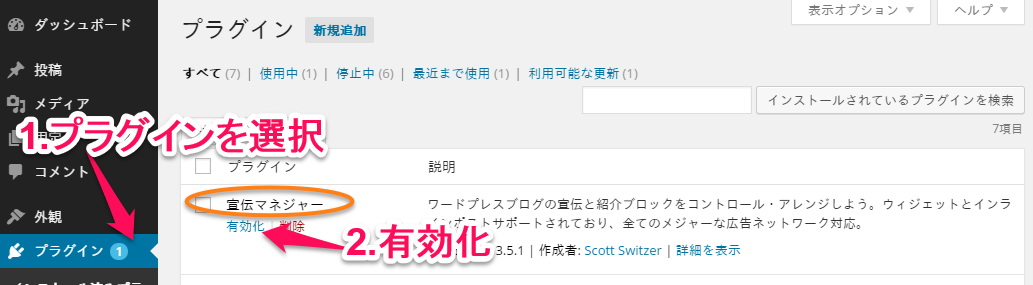
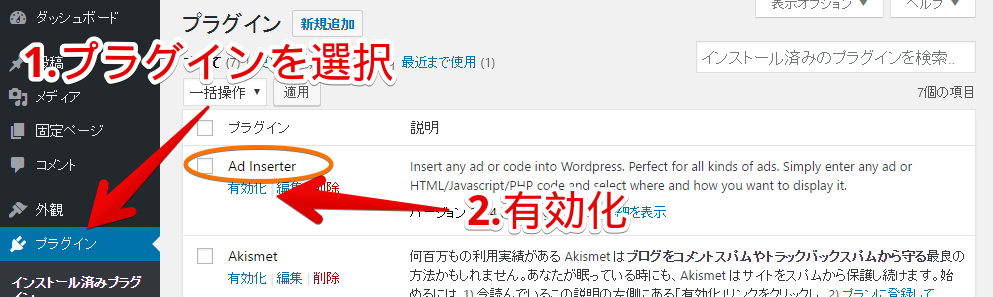
Updated Wordpress Document. Added Ad Inserter instead of Advatising Manager

diff --git a/WordPress_Plugin.md b/WordPress_Plugin.md
@@ -1,191 +1,197 @@
 # 目次
-- [WordPressプラグイン「Advertising Manager」のインストール](#install)
-  - [「Advertising Manager」をインストールする](#install1)
-  - [「Advertising Manager」を有効にする](#install2)
-- [「Advertising Manager」の設定](#setup)
-  - [テーマの編集](#setup1)
-    - [テンプレートへのコードの追加](#setup1-1)
-  - [「Adveritising Manager」の広告枠設定](#setup2)
-    - [広告テンプレートと呼出用タグの設定](#setup2-1)
-    - [広告設置位置指定タグの設定](#setup2-2)
+- [事前に準備するもの](#prerequisite)
+ - [広告枠ID](#prerequisite1)
+- [WordPressプラグインのインストール](#install)
+ - [プラグインをインストールする](#install1)
+ - [プラグインを有効にする](#install2)
+ - [Advanced Ads Pro の購入方法](#install3)
+- [「Ad Inserter」をインストールした場合](#setup1)
+ - [「Ad Inserter」の共通設定 - 広告表示実行コードを登録](#setup1-1)
+ - [広告を title と content の間に出力する方法 (テーマ編集なし)](#setup1-2)
+   - [広告設置位置指定タグの設定](#setup1-2-1)
+ - [広告を post と post の間に出力する方法 (テーマ編集あり)](#setup1-3)
+   - [広告設置位置指定タグの設定](#setup1-3-1)
+   - [テンプレートへのコードの追加](#setup1-3-2)
+- [「Advanced Ads Pro」をインストールした場合](#setup2)
+ - [広告を post と post の間に出力する方法 (テーマ編集なし)](#setup2-1)
+   - [広告設置位置指定タグの設定](#setup2-1-1)
 
 
-WordPress にプラグインを用いてインフィード広告を導入する方法を説明します。
+# 目的
+- WordPress にプラグインを用いてインフィード広告を導入する方法を説明します。
+- 紹介するプラグインは「Ad Inserter」と「Advanced Ads Pro(有料版)」になります。
+- プラグインのインストール方法は「Ad Inserter」のみで解説しますが基本作業はどちらも同じです。
 
+<a name="prerequisite"></a>
+# 事前に準備するもの
+
+<a name="prerequisite1"></a>
+## 広告枠ID
+管理画面で広告枠の新規登録を行い``広告枠 ID`` を準備してください。
+
+![広告枠ID](Install_SDK_Guide_Images/ja/adspot_id.png)
 
 <a name="install"></a>
-# WordPressプラグイン「Advertising Manager」のインストール
+# WordPressプラグインのインストール
 
 <a name="install1"></a>
-## 「Advertising Manager」をインストールする
+## プラグインをインストールする
 
-一般的なやり方は下記の3通りになります。
+- 一般的なやり方は下記の3通りになります。
+- 以下、「Ad Inserter」を例にしていますが、「Advanced Ads」の場合も名前を変えて同じ手順を行います。
 
 ### WordPress管理画面上でプラグイン検索してインストールする方法
 
-- WordPress管理画面の「プラグイン＞新規追加」で「advertising-manager」を検索する
-- Scott Switzer作の「Advertising Manager」を「いますぐインストール」でインストールする
+- WordPress管理画面の「プラグイン＞新規追加」で「ad inserter」を検索する
+- Igor Funa作の「Ad Inserter」を「いますぐインストール」でインストールする
 
 ![インストール方法その1](Install_SDK_Guide_Images/ja/install1.png)
 
 ### プラグインのZIPファイルを指定してインストールする方法
 
-- [WordPressプラグイン「Advertising Manager」](https://wordpress.org/plugins/advertising-manager/)からプラグインのZIPファイルをダウンロードする
+- [WordPressプラグイン「Ad Inserter」](https://wordpress.org/plugins/ad-inserter/)からプラグインのZIPファイルをダウンロードする
 - WordPress管理画面の「プラグイン＞新規追加」で「プラグインのアップロード」を選択する
 - プラグインのZIPファイルを指定して「いますぐインストール」でインストールする
 
 ![インストール方法その2](Install_SDK_Guide_Images/ja/install2.png)
 
+「プラグインのアップロード」を選択すると下図のように展開する
+
+![インストール方法その2-1](Install_SDK_Guide_Images/ja/install3.png)
+
 ### サーバに直接アップする方法
 
-- [WordPressプラグイン「Advertising Manager」](https://wordpress.org/plugins/advertising-manager/)からプラグインのZIPファイルをダウンロードする
-- ZIPファイルを WordPressがインストールされているディレクトリの `wp-contents/plugins`ディレクトリにアップする
-- ZIPファイルを解凍する
+- [WordPressプラグイン「Ad Inserter」](https://wordpress.org/plugins/ad-inserter/)からプラグインのZIPファイルをダウンロードする
+- ZIPファイルを解凍したディレクトリの中に「ad-inserter」という名前のディレクトリができる
+- 「ad-inserter」ディレクトリを WordPressがインストールされているディレクトリの `wp-contents/plugins`ディレクトリにアップロードする
+ - アップロードにはFTPアプリケーションなどをご利用ください
 
-![インストール方法その3](Install_SDK_Guide_Images/ja/install3.png)
-
+![インストール方法その3](Install_SDK_Guide_Images/ja/install4.png)
 
 <a name="install2"></a>
-## 「Advertising Manager」を有効にする
+## プラグインを有効にする
 
-WordPress管理画面の「プラグイン＞インストール済みプラグイン」で「宣伝マネージャ」(Advertising Manager)を「有効」にしてください。
+WordPress管理画面の「プラグイン＞インストール済みプラグイン」で Ad Inserter を「有効」にしてください。
 
 ![有効化](Install_SDK_Guide_Images/ja/activate.png)
 
+<a name="install3"></a>
+## Advanced Ads Pro の購入方法
 
-<a name="setup"></a>
-# 「Advertising Manager」の設定
+プラグインの設定画面より購入ページへ遷移して購入してください。
+
+![Pro購入方法](Install_SDK_Guide_Images/ja/buypro.png)
+
 
 <a name="setup1"></a>
-## テーマの編集
+# 「Ad Inserter」プラグインで広告を表示する
+
+<a name="setup1-1"></a>
+## 「Ad Inserter」の共通設定 - 広告表示実行コードを登録
+
+WordPress管理画面の「設定＞Ad Inserter」から以下の手順で登録を行います。
+
+1. 「Tab16」の右にある「空白タブ」をクリック
+2. 設定画面のタブから「Footer」をクリック
+3. Enable にチェックを入れ以下2行を追加
+```html
+<script src="http://js.mtburn.com/advs-instream.js"></script>
+<script type="text/javascript">MTBADVS.InStream.Default.run({immediately:true})</script>
+```
+4. 「Save Settings」をクリック
+
+![Ad Inserter共通設定](Install_SDK_Guide_Images/ja/ad_inserter_common.png)
+
+<a name="setup1-2"></a>
+## 広告を title と content の間に出力する方法 (テーマ編集なし)
+
+<a name="setup1-2-1"></a>
+### 広告設置位置指定タグの設定
+
+WordPress管理画面の「設定＞Ad Inserter」からコードを登録してください。
+- Automatic Display に 「Before Content」 を選択します。
+- Postsにチェックを入れ「On all」を選択します。
+- Block Aliggnment に 「No Wrapping」 を選択します。
+- 「Homepage」, 「Category」, 「Search page」, 「Tag/Archive pages」 をチェックします。
+- 広告コードを登録します。`広告枠ID` の部分には管理画面で発行した[広告枠ID](#prerequisite1)を入力してください。
+- 「Save All Settings」を押して登録を完了してください
+
+![広告設定1](Install_SDK_Guide_Images/ja/setup1.png)
+
+
+**Ad Inserter の title と content の間に出力する設定は完了です。**
+
+一覧ページで title と content の間に広告が表示されているかを確認してください。
+
+
+<a name="setup1-3"></a>
+## 広告を post と post の間に出力する方法 (テーマ編集あり)
+
+<a name="setup1-3-1"></a>
+### 広告設置位置指定タグの設定
+
+WordPress管理画面の「設定＞Ad Inserter」からコードを登録してください。
+- 「Manual」を選択します。
+- Automatic Display に 「None」 を選択します。
+- Postsにチェックを入れ「On all」を選択します。
+- Block Aliggnment に 「No Wrapping」 を選択します。
+- 「Homepage」, 「Category」, 「Search page」, 「Tag/Archive pages」 をチェックします。
+- 広告コードを登録します。`広告枠ID` の部分には管理画面で発行した[広告枠ID](#prerequisite1)を入力してください。
+- 「PHP function」をチェックします。
+- 「PHP function」の右のコードをメモします。
+ - `if (function_exists('adinserter')) echo adinserter(1);`
+- 「Save All Settings」を押して登録を完了してください
+- 完了後、一覧ページで post と post の間に広告が表示されているかを確認してください。
+
+![広告設定1](Install_SDK_Guide_Images/ja/setup2.png)
+
+同じフィード内にさらに広告を設置する場合は必要個数分追記してください。
+
+<a name="setup1-3-2"></a>
+### テンプレートへのコードの追加
 
 テーマを編集し、広告を表示させたいフィード部分にコードを追加します。
 
-例として、WordPressインストール初期状態のフィード一覧ページのテンプレートは以下の 3 つです。
+例として、WordPressインストール初期状態のフィード一覧ページのテンプレートは以下の 4 つですがテーマによっては存在しないテンプレートもあります。
 
 - メインインデックステンプレート (``index.php``)
 - 検索結果テンプレート (``search.php``)
 - アーカイブテンプレート (``archive.php``)
+- カテゴリーテンプレート (``category.php``)
 
 ![テンプレート](Install_SDK_Guide_Images/ja/template1.png)
 
-
-<a name="setup1-1"></a>
+<a name="setup1-1-1"></a>
 ### テンプレートへのコードの追加
 
-- WordPress管理画面の「外観＞テーマの編集」で、編集するテンプレート(``index.php``や``search.php``、``archive.php`` など)を選択してください
-- 下記を参考に 2 行のコードを追加してください
-  - ループの終了直前の行に以下のコードを追加してください
-    - `advman_ad('ADVS_xxx-' . (is_null($advs_xxx) ? ($advs_xxx = 1) : ++$advs_xxx));`
-      - `xxx` は内容に応じた任意の名前をつけてください。例えば index ページならば `ADVS_index` など
-      - `xxx` には半角英数字のみ使用できます
-  - ループ終了後の行に以下のコードを追加してください
-    - `advman_ad('ADVS_xxx');`
-- 「ファイルを更新」を押してテンプレートの編集を終了してください
+- WordPress管理画面の「外観＞テーマの編集」で、編集するテンプレート(``index.php``や``search.php``、``archive.php``、``category.php`` など)を選択してください
+- 下記を参考に 1 行のコードを追加してください
+  - ループの終了直前の行に前項でメモしたコードを追加してください
+    - `if (function_exists('adinserter')) echo adinserter(1);`
+- 「Save All Settings」を押してテンプレートの編集を終了してください
 
 `index` のテンプレートにコードを追加する例
 
 ```php
-	// Start the Loop.
-	while ( have_posts() ) : the_post();
+// Start the loop.
+while ( have_posts() ) : the_post();
 
-		/*
-		 * Include the Post-Format-specific template for the content.
-		 * If you want to override this in a child theme, then include a file
-		 * called content-___.php (where ___ is the Post Format name) and that will be used instead.
-		 */
-		get_template_part( 'content', get_post_format() );
+      /*
+       * Include the Post-Format-specific template for the content.
+       * If you want to override this in a child theme, then include a file
+       * called content-___.php (where ___ is the Post Format name) and that will be used instead.
+       */
+      get_template_part( 'template-parts/content', get_post_format() );
 
-		advman_ad('ADVS_index-' . (is_null($advs_index) ? ($advs_index = 1) : ++$advs_index));	// ←この行を追加。
+      if (function_exists ('adinserter')) echo adinserter (1);
 
-	// End the loop.
-	endwhile;
-	advman_ad('ADVS_index');													// ←この行を追加
+// End the loop.
+endwhile;
 ```
 
 ![テンプレートの編集](Install_SDK_Guide_Images/ja/template2.png)
 
 
-<a name="setup2"></a>
-## 「Adveritising Manager」の広告枠設定
-
-<a name="setup2-1"></a>
-### 広告テンプレートと呼出用タグの設定
-
-#### テンプレート用タグの準備
-
-広告枠のテンプレート用タグを準備してください。媒体様ごとに異なるテンプレートが必要です。詳しくは [こちら](https://github.com/mtburn/MTBurn-JavaScript-SDK-Install-Guide/blob/master/Programming_Guide.md#user-content-%E3%83%86%E3%83%B3%E3%83%97%E3%83%AC%E3%83%BC%E3%83%88%E3%81%AE%E8%A8%98%E8%BF%B0) を参照ください。
-
-テンプレート用タグの例
-
-```html
-<div class="article">
-	<div class="icon">
-		<a href="{{click_url}}"><img src="{{main_image_url}}"></a>
-	</div>
-	<div class="contents">
-		<h3>{{title}}</h3>
-		<p>{{description}}</p>
-		<span class="source">Sponsored</span>
-	</div>
-</div>
-```
-
-テンプレート内で使うことができるパラメータは [こちら](https://github.com/mtburn/MTBurn-JavaScript-SDK-Install-Guide/blob/master/Programming_Guide.md#user-content-%E5%BA%83%E5%91%8A%E3%83%91%E3%83%A9%E3%83%A1%E3%83%BC%E3%82%BF) を参照ください。
-
-#### テンプレート用タグと呼出用タグの入稿
-
-WordPress管理画面の「広告＞新規作成」で、下記のコードを貼り付けて「インポート」してください。
-
-```html
-<script type="text/advs-instream-template" data-adspot-id="広告枠ID">
-<!-- ここに先ほど準備した広告テンプレートを貼り付けてください -->
-</script>
-<script src="//js.mtburn.com/advs-instream.js"></script>
-<script>MTBADVS.InStream.Default.run();</script>
-```
-
-![広告設定1](Install_SDK_Guide_Images/ja/ad_setup1.png)
-
-- `ここに先ほど準備した広告テンプレートを貼り付けてください` 部分に、さきほど準備いただいた広告テンプレートを貼り付けてください。また広告を表示する際の文字数などは、この時点での設定が必要です。詳しくは [こちら](https://github.com/mtburn/MTBurn-JavaScript-SDK-Install-Guide/blob/master/Programming_Guide.md#user-content-%E5%BA%83%E5%91%8A%E3%82%BF%E3%82%A4%E3%83%88%E3%83%AB%E8%AA%AC%E6%98%8E%E6%96%87%E3%81%AE%E7%9F%AD%E7%B8%AE) を参照ください。
-- `広告枠ID` の部分には、管理画面で発行した広告枠 ID を入力してください。
-![広告枠ID](Install_SDK_Guide_Images/ja/adspot_id.png)
-
-インポート後、「HTML広告の設定を編集」画面になります。
-
-- `HTML` を `ADVS_xxx` に変更してください
-  - `xxx` の部分は [テーマの編集](#setup1) で決めた名前に変更してください。今回の例では `ADVS_index` となります
-- 「アカウント詳細＞Max Ads Per Page」を「1」に変更してください
-- 「保存」を押して登録を完了してください
-
-![広告設定2](Install_SDK_Guide_Images/ja/ad_setup2.png)
-
-
-<a name="setup2-2"></a>
-### 広告設置位置指定タグの設定
-
-WordPress管理画面の「広告＞新規作成」で、下記のコードを貼り付けて「インポート」してください。
-
-```html
-<div data-advs-adspot-id="広告枠ID" style="display:none"></div>
-```
-
-![広告設定2](Install_SDK_Guide_Images/ja/infeed1.png)
-
-- `広告枠ID` の部分には、広告テンプレート用タグと同様の、管理画面で発行した広告枠 ID を入力してください。
-
-インポート後、「HTML広告の設定を編集」画面になります。
-
-- `HTML` を `ADVS_xxx-<表示位置>` に変更してください。
-  - `xxx` の部分は [テーマの編集](#setup1) で決めた名前に変更してください。今回の例では `ADVS_index` となります
-  - `<表示位置>` には整数を入れてください。設定した数値の次のフィードにインフィード広告が表示されます
-- 「保存」を押して登録を完了してください
-
-![広告設定2](Install_SDK_Guide_Images/ja/infeed2.png)
-
-同じフィード内にさらに広告を設置する場合は、[広告設置位置指定タグの設定](#setup2-2) を必要個数分実行してください。
-
-
-**これで設定は完了です。**
+**Ad Inserter のpost と post の間に出力する設定は完了です。**
 
 変更したテンプレートの画面で、インフィード広告が表示されるかご確認ください。
